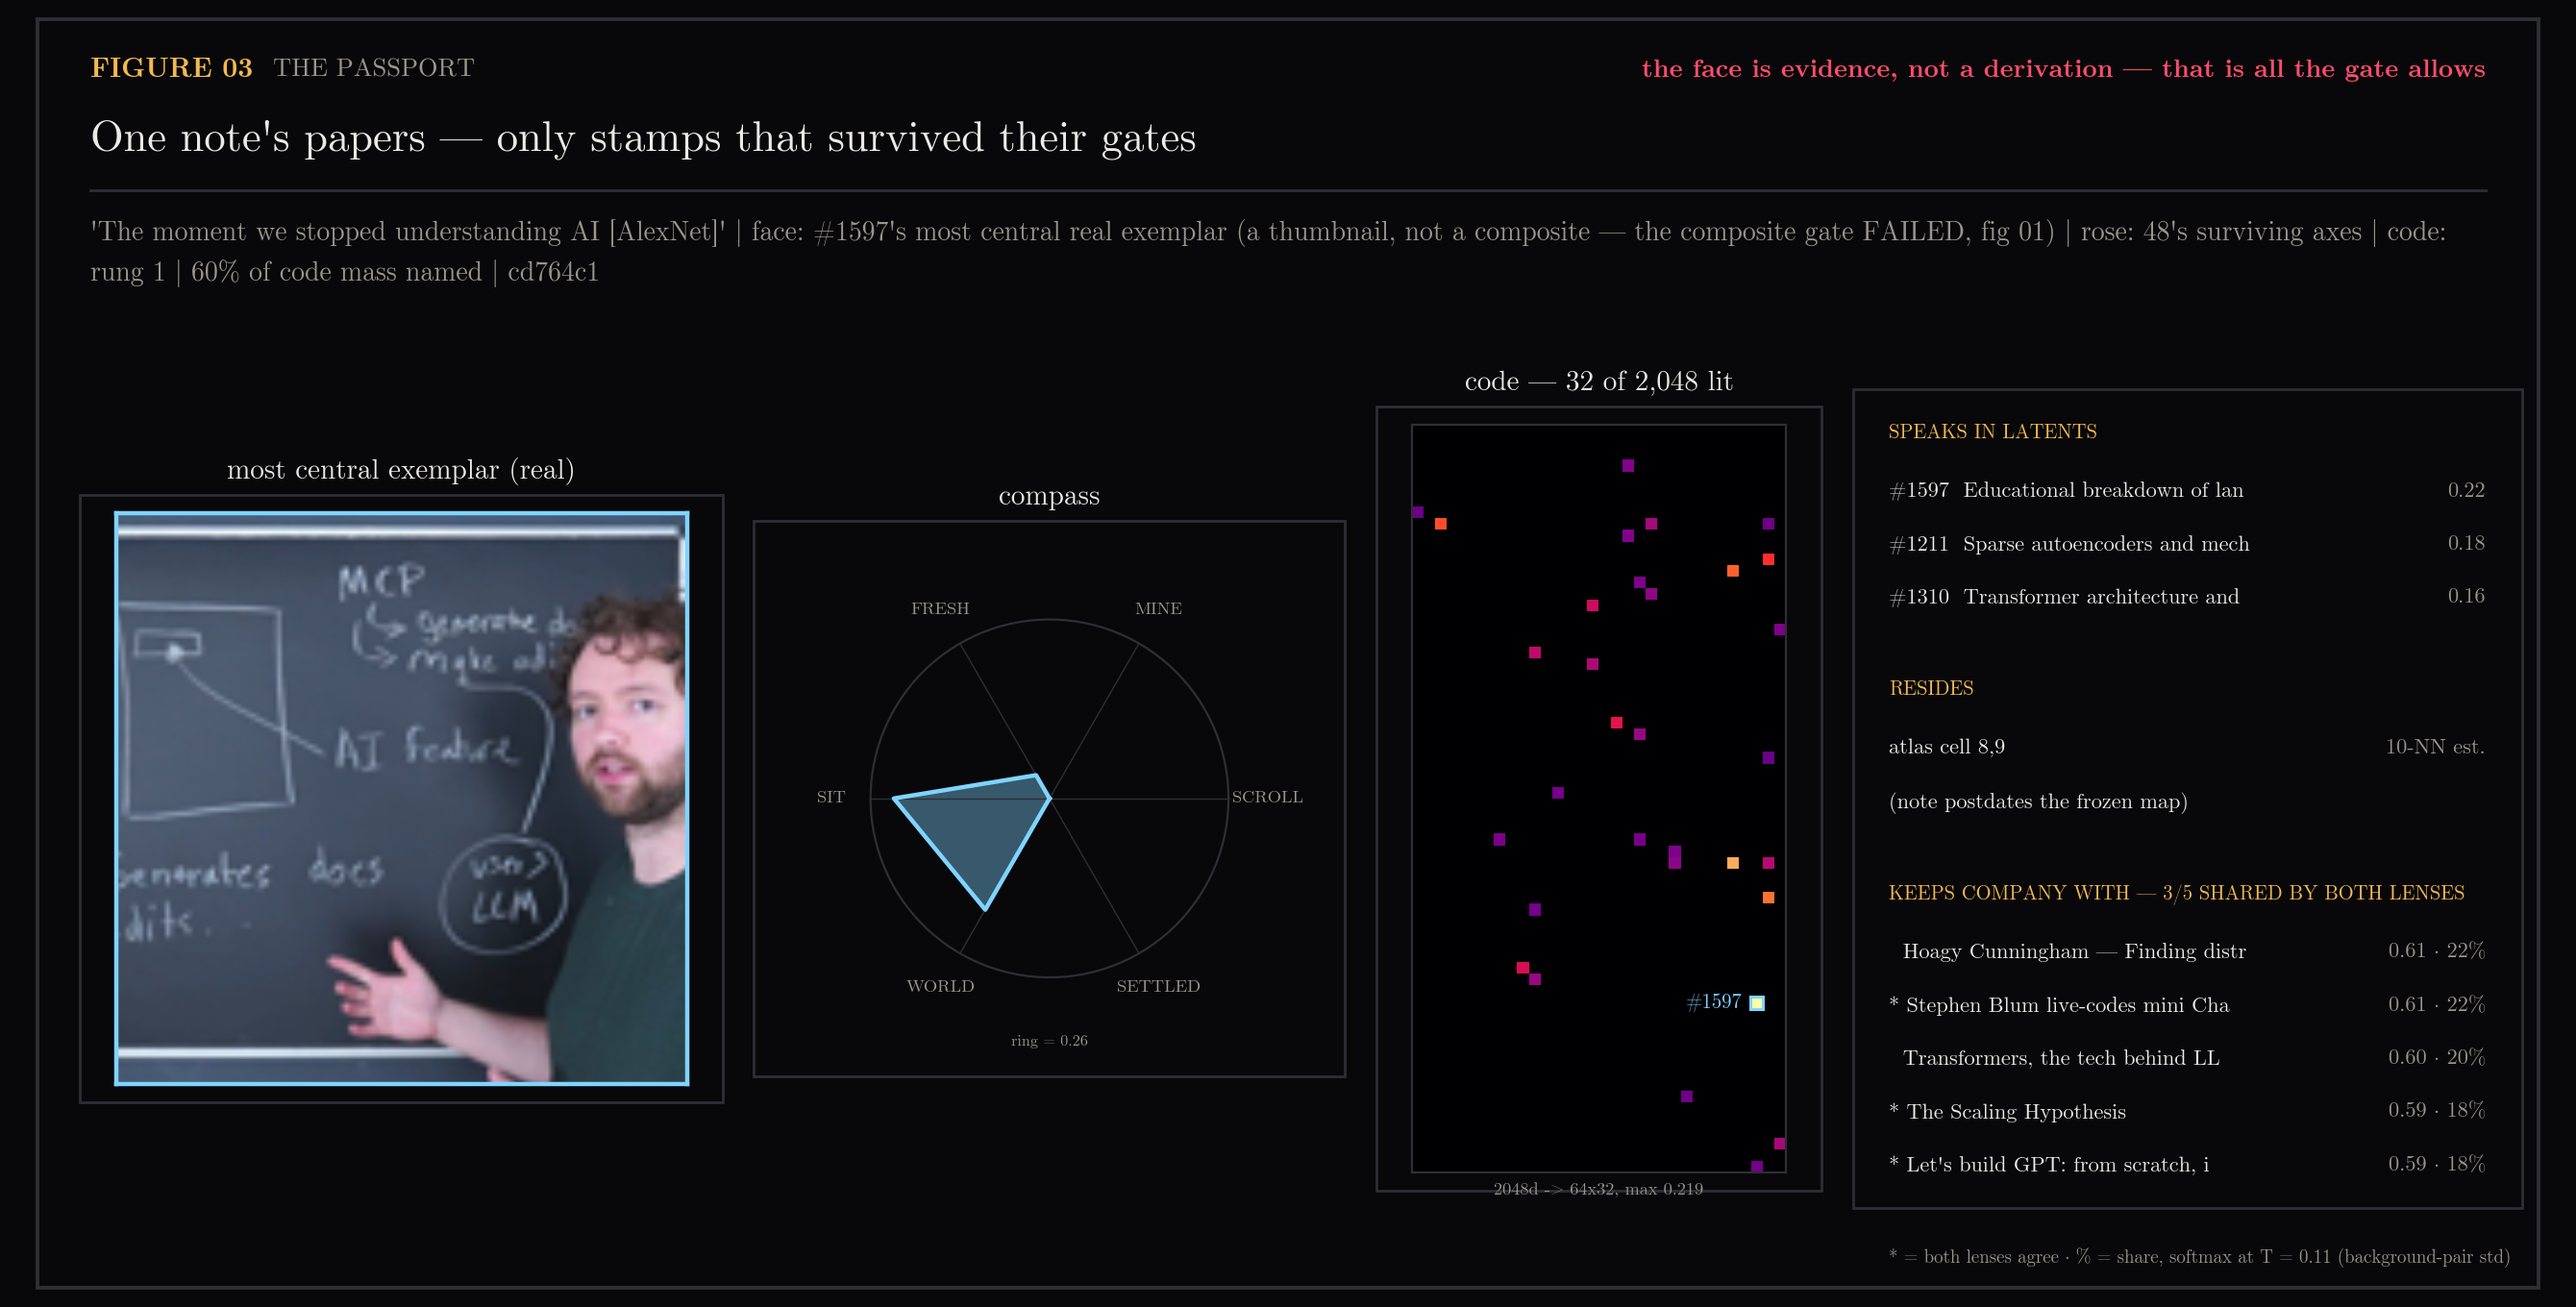
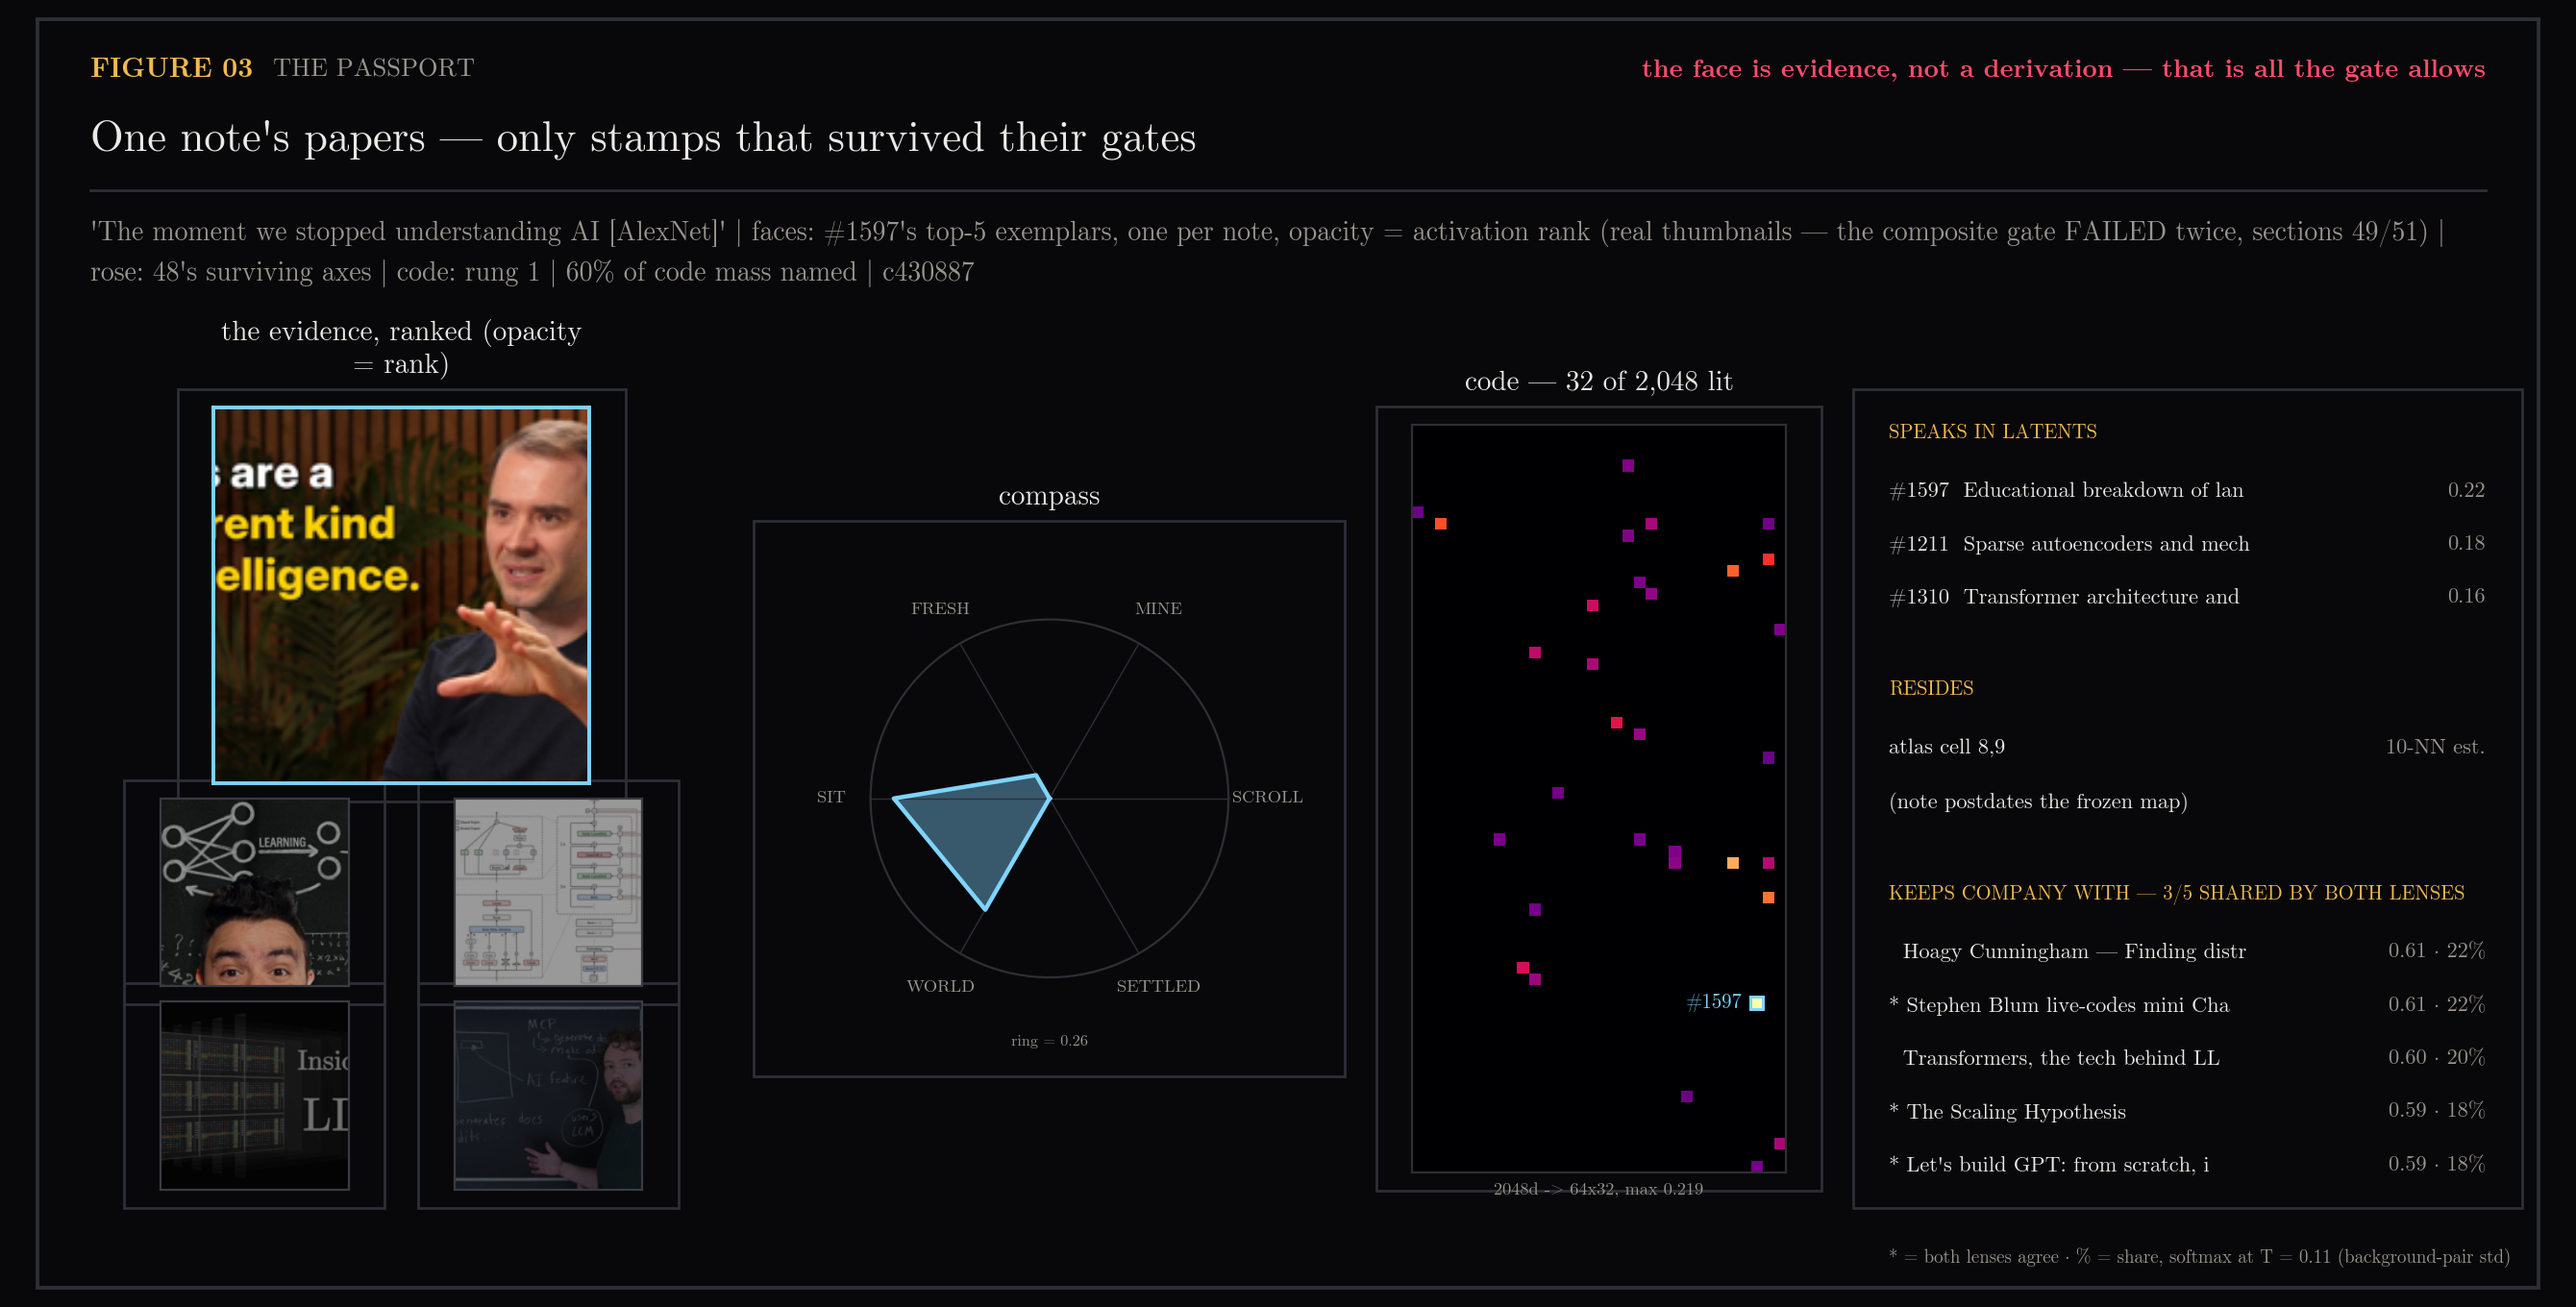
passport: the face is now the evidence ranked, not one exemplar
Owner design: top-5 one-per-note exemplars replace the single medoid,
opacity encoding activation rank — rank 1 full and cyan-bordered, the
rest dimming. Still nothing derived: after 49 and 51 the panel may
only show real thumbnails, and now it shows how the evidence is
actually distributed rather than electing one winner.

Changed region(s): [[0.031, 0.2471, 0.2787, 0.9265], [0.031, 0.1544, 0.9601, 0.2162]]

diff --git a/scripts/plot_latent_portraits.py b/scripts/plot_latent_portraits.py
@@ -211,9 +211,10 @@ def fig03(z, res, feats) -> None:
         3,
         "the passport",
         "One note's papers — only stamps that survived their gates",
-        f"'{tr['title']}' | face: #{PROT}'s most central real exemplar (a thumbnail, not a "
-        f"composite — the composite gate FAILED, fig 01) | rose: 48's surviving axes | code: "
-        f"rung 1 | {tr['named_mass_frac']:.0%} of code mass named | {SHA}",
+        f"'{tr['title']}' | faces: #{PROT}'s top-5 exemplars, one per note, opacity = "
+        f"activation rank (real thumbnails — the composite gate FAILED twice, sections 49/51) "
+        f"| rose: 48's surviving axes | code: rung 1 | {tr['named_mass_frac']:.0%} of code "
+        f"mass named | {SHA}",
     )
     gs = fig.add_gridspec(
         1,
@@ -226,14 +227,50 @@ def fig03(z, res, feats) -> None:
         wspace=0.2,
     )
 
-    ax = fig.add_subplot(gs[0, 0])
-    ax.imshow(z["medoids"][feats[PROT]], interpolation="bilinear")
-    ax.set_xticks([])
-    ax.set_yticks([])
-    for s in ax.spines.values():
-        s.set_color(CYAN)
-        s.set_linewidth(1.6)
-    panel_title(ax, "most central exemplar (real)", width=28)
+    # top-5 deduped exemplar faces, opacity fading down the activation ranking:
+    # the evidence ranked, never a derived image
+    rows_all = [json.loads(x) for x in (SAE / "data" / "rows.jsonl").read_text().splitlines()]
+    za = np.load(SAE / "data" / "acts_final_d2048_k32_s0.npz")
+    idxa, vala = za["idx"], za["val"]
+    hits = []
+    r_, j_ = np.nonzero((idxa == PROT) & (vala > 0))
+    for r, j in zip(r_, j_):
+        hits.append((float(vala[r, j]), int(r)))
+    hits.sort(reverse=True)
+    faces, seen = [], set()
+    for a, r in hits:
+        row = rows_all[r]
+        nk = row["id"].rsplit("_", 1)[0] if row["kind"] == "segment" else row["id"]
+        if nk in seen:
+            continue
+        if row["kind"] in ("video", "segment"):
+            p = VAULT / "youtube" / "thumbnails" / f"{nk}-thumb.jpg"
+            if p.exists():
+                im = Image.open(p).convert("RGB")
+                side = min(im.size)
+                left, up = (im.width - side) // 2, (im.height - side) // 2
+                faces.append(
+                    np.asarray(
+                        im.crop((left, up, left + side, up + side)).resize((160, 160)), float
+                    )
+                    / 255.0
+                )
+                seen.add(nk)
+        if len(faces) == 5:
+            break
+    gsl = gs[0, 0].subgridspec(3, 2, height_ratios=[2, 1, 1], hspace=0.06, wspace=0.06)
+    slots = [gsl[0, :], gsl[1, 0], gsl[1, 1], gsl[2, 0], gsl[2, 1]]
+    alphas = [1.0, 0.75, 0.6, 0.45, 0.32]
+    for k, (img, slot, al) in enumerate(zip(faces, slots, alphas)):
+        ax = fig.add_subplot(slot)
+        ax.imshow(img * al, interpolation="bilinear")
+        ax.set_xticks([])
+        ax.set_yticks([])
+        for s in ax.spines.values():
+            s.set_color(CYAN if k == 0 else DIM)
+            s.set_linewidth(1.4 if k == 0 else 0.8)
+        if k == 0:
+            panel_title(ax, "the evidence, ranked (opacity = rank)", width=30)
 
     ax = fig.add_subplot(gs[0, 1])
     semantic_rose(ax, (v / np.linalg.norm(v)) @ A.T, poles, color=CYAN)
